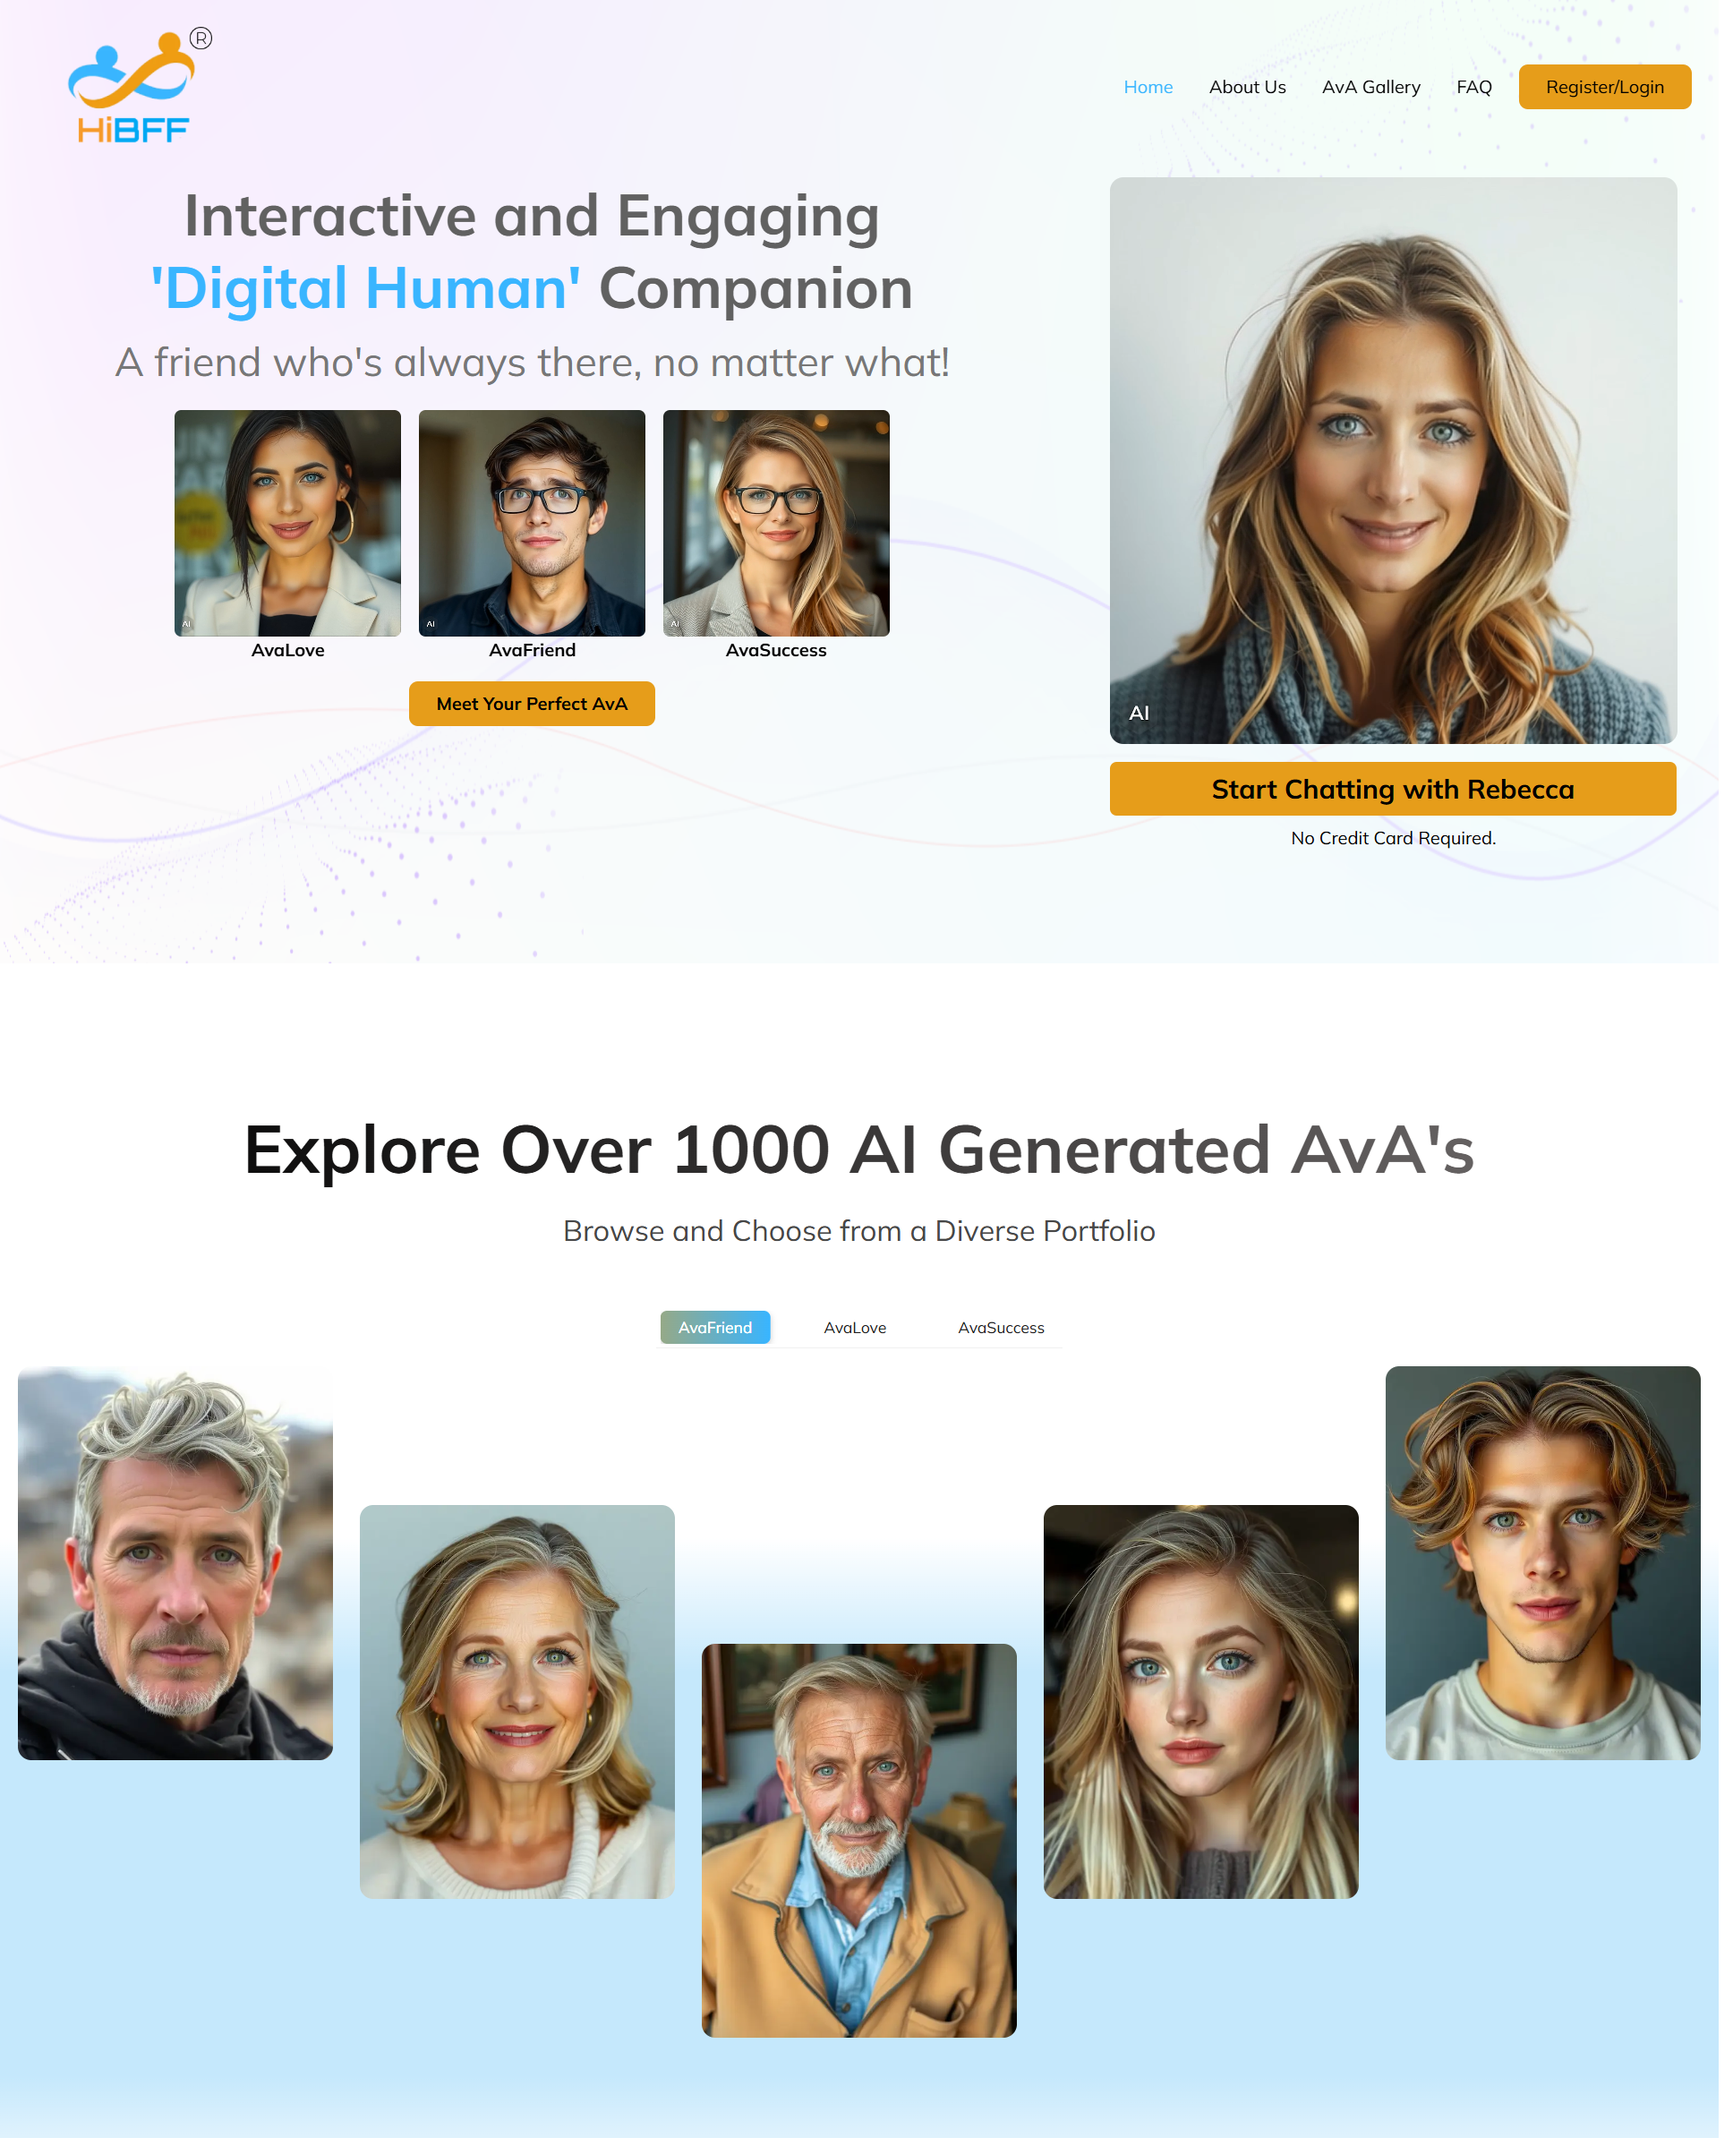
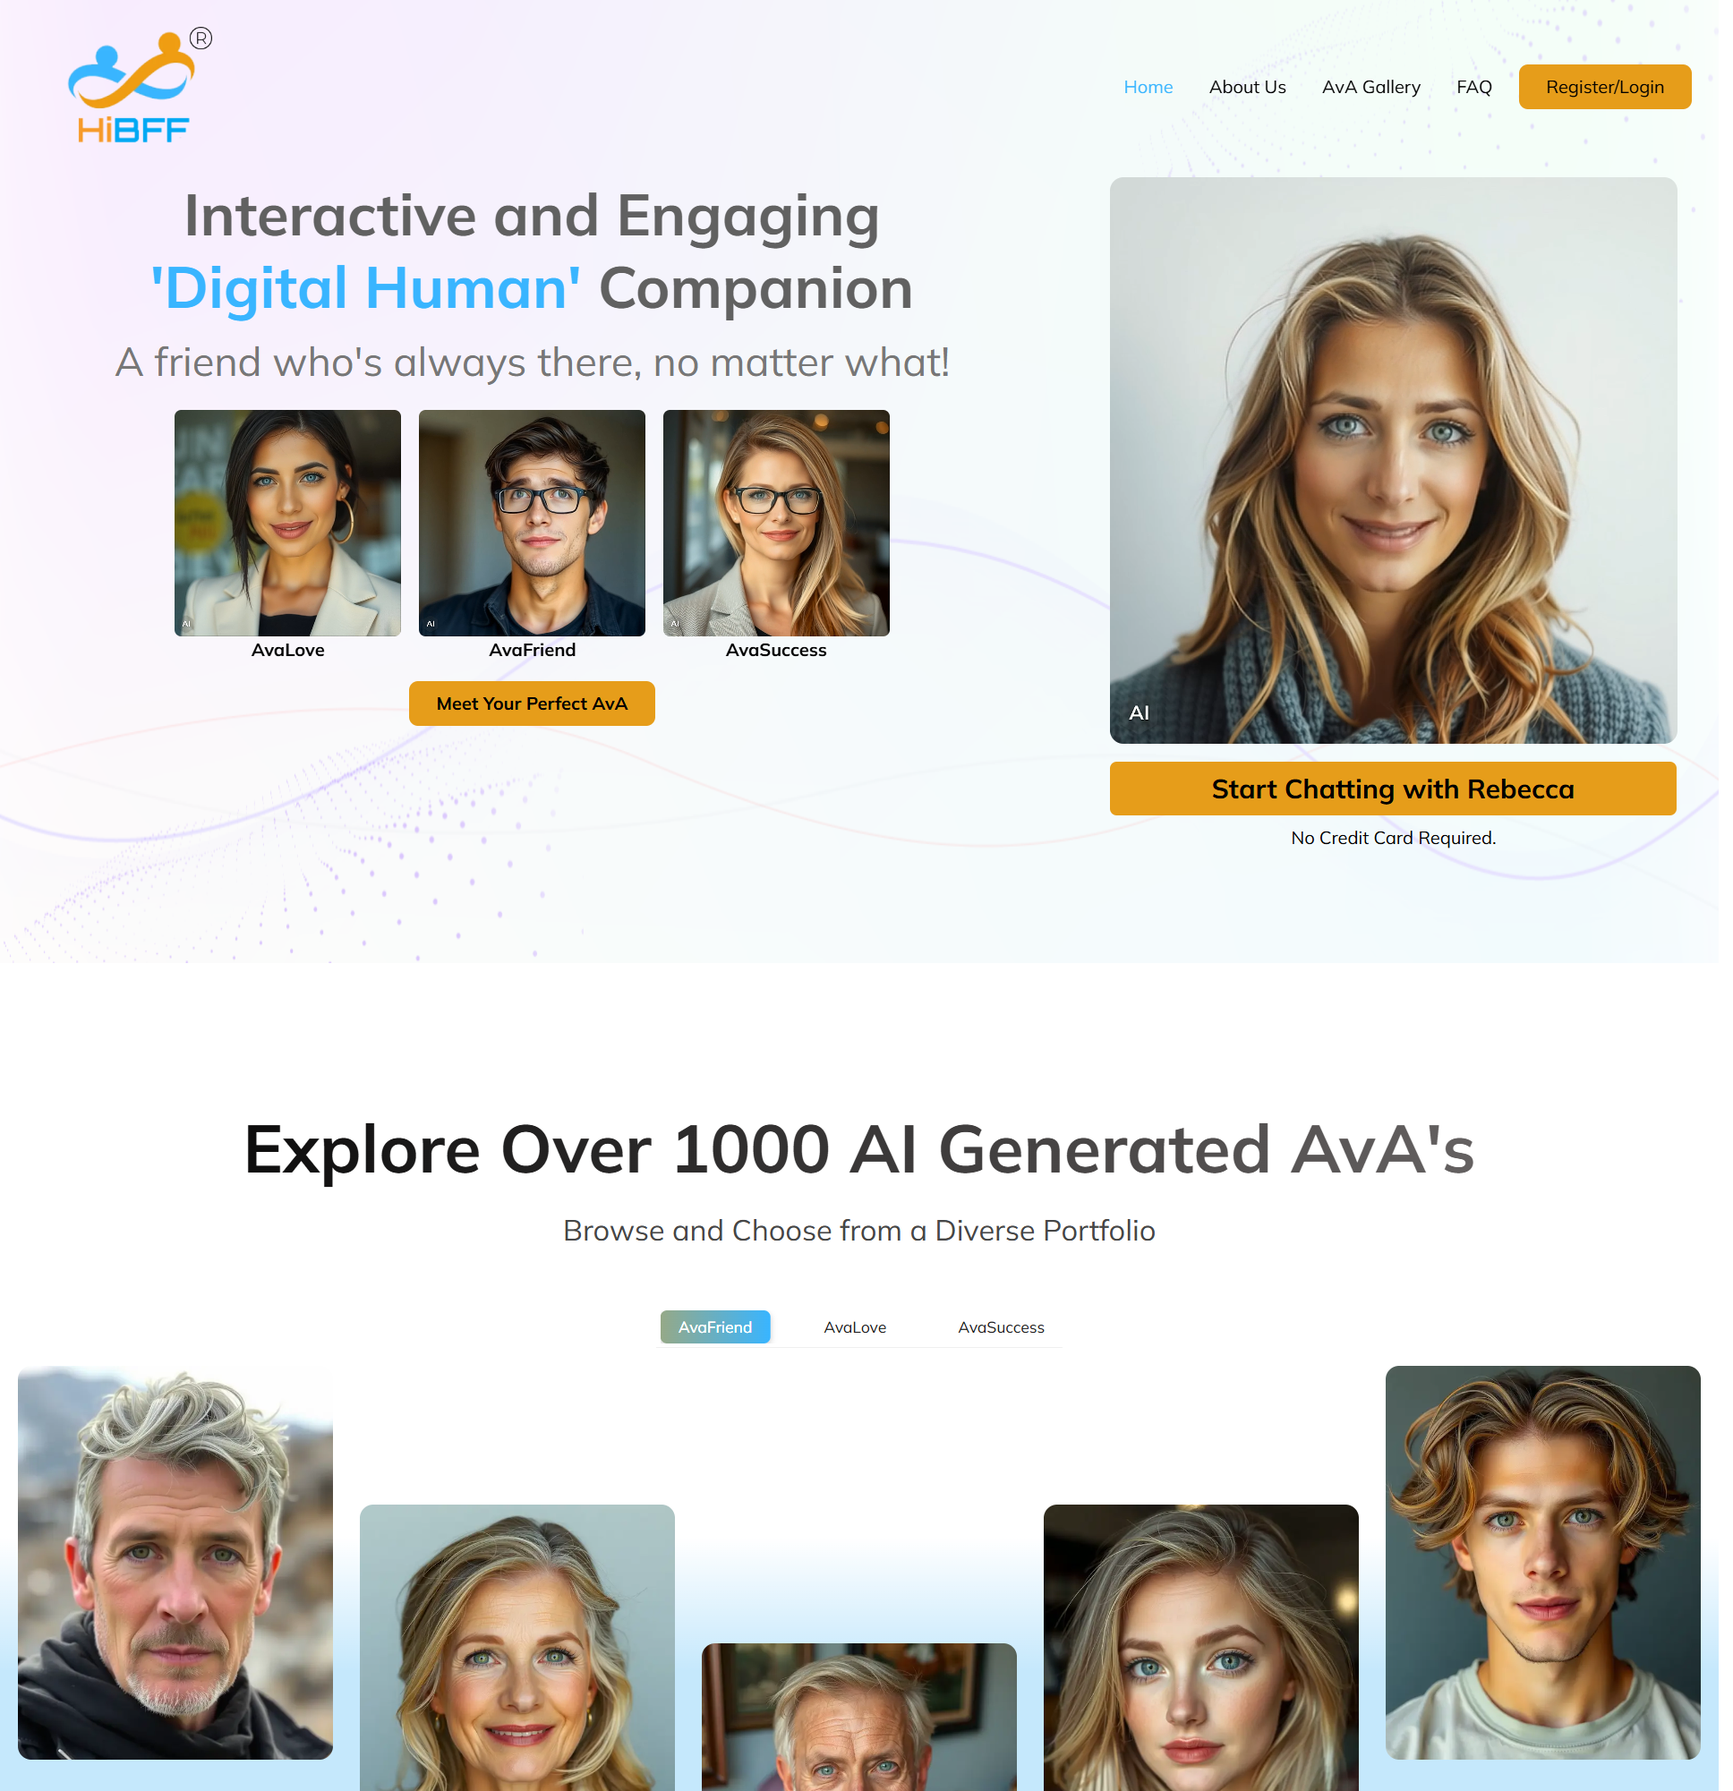
updated

diff --git a/src/components/portfolio/portfolio-area.jsx b/src/components/portfolio/portfolio-area.jsx
@@ -10,13 +10,13 @@ const PortfolioArea = () => {
                 <div className="container">
                     <div className="row">
                         {portfolio_data.map((item, i) =>
-                            <div key={i} className="col-xl-4 col-lg-6 col-md-6">
+                            <div key={i} className="col-xl-4 col-lg-6 col-md-6 mb-4">
                                 <div className="tp-portfolio-item-wrapper">
                                     <div className="tp-portfolio-item-thumb">
                                         <Image src={item.img} alt="theme-pure" />
                                     </div>
                                     <div className="tp-portfolio-item-content">
-                                        <span className="tp-portfolio-item-subtitle">{item.catagory}</span>
+                                        {/* <span className="tp-portfolio-item-subtitle">{item.catagory}</span> */}
                                         <h3 className="tp-portfolio-item-title">
                                             <Link href={`/portfolio-details/${item.id}`}>{item.title}</Link></h3>
                                         <div className="tp-portfolio-item-content-btn">

diff --git a/src/data/portfolio-data.js b/src/data/portfolio-data.js
@@ -1,6 +1,6 @@
 
 import portfolio_img_1 from "@assets/img/portfolio/test.png";
-import portfolio_img_2 from "@assets/img/portfolio/img-2.jpg";
+import portfolio_img_2 from "@assets/img/portfolio/test2.png";
 import portfolio_img_3 from "@assets/img/portfolio/img-3.jpg";
 import portfolio_img_4 from "@assets/img/portfolio/img-4.jpg";
 import portfolio_img_5 from "@assets/img/portfolio/img-5.jpg";
@@ -11,14 +11,14 @@ const portfolio_data = [
     {
         id: 1,
         img: portfolio_img_1,
-        catagory: "Marketing",
+        catagory: "AI Chat",
         title: "HIBFF",
     },
     {
         id: 2,
         img: portfolio_img_2,
-        catagory: "XD Design",
-        title: "SEO & Content Writing",
+        catagory: "NFT Market",
+        title: "Elmonx",
     },
     {
         id: 3,
